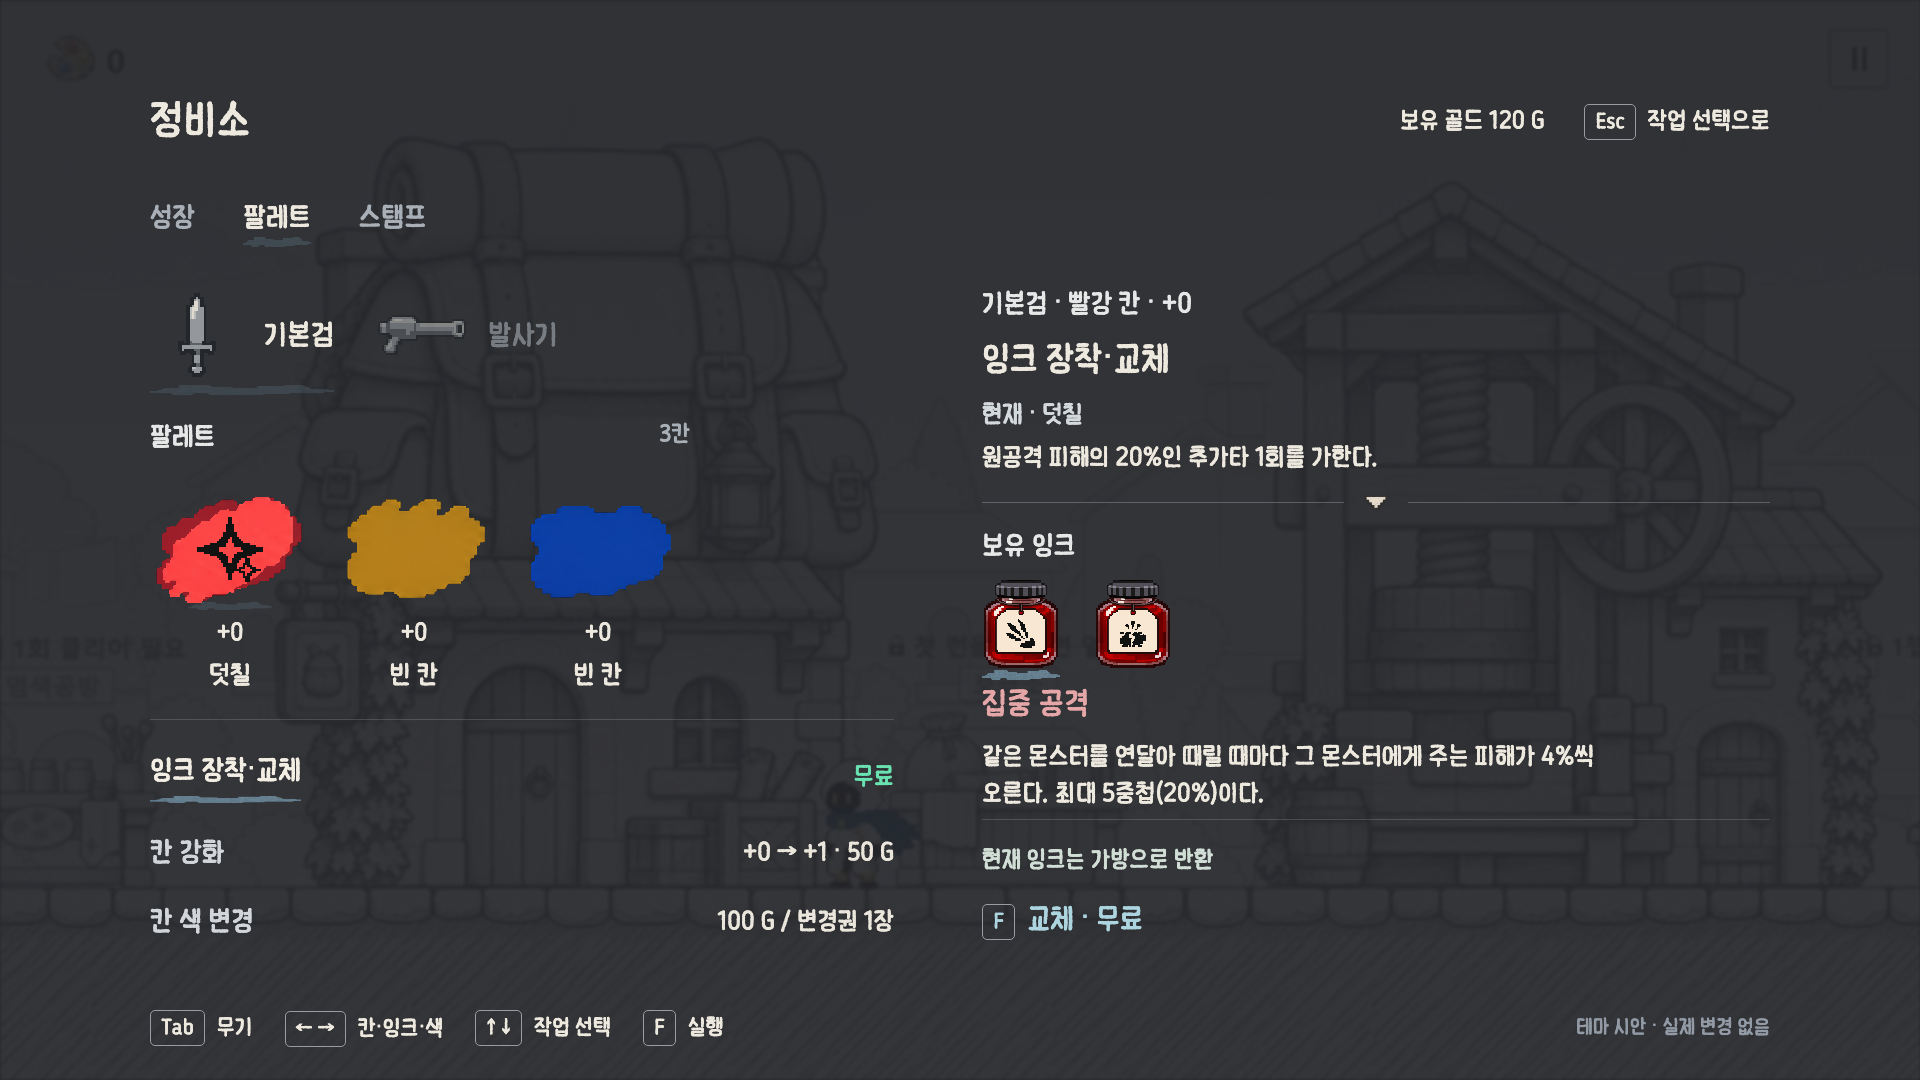
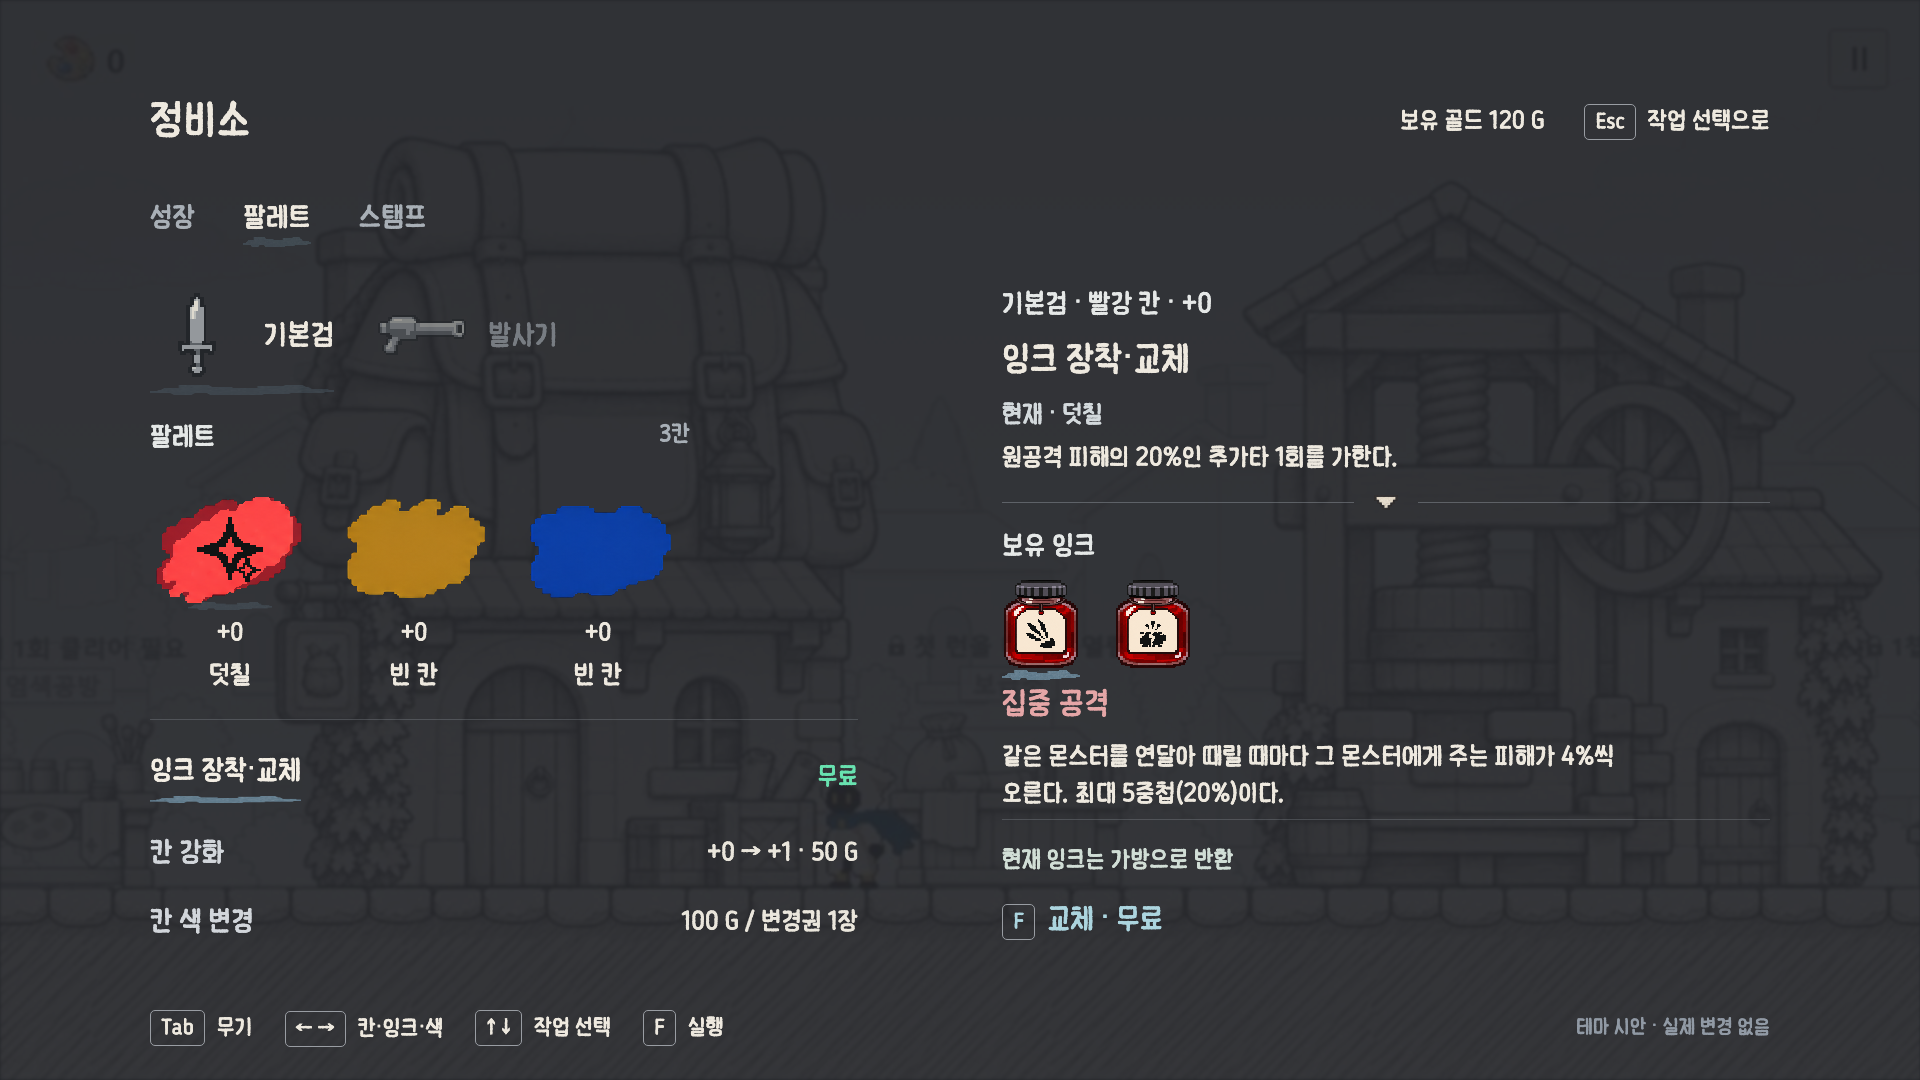
Widen palette layout gutter and document recolor implementation

diff --git a/ui/work/theme/ink-pixel-v1/maintenance-palette-v1/index.html b/ui/work/theme/ink-pixel-v1/maintenance-palette-v1/index.html
@@ -3,7 +3,7 @@
 
 /* Layout review: keep the composition centered and emphasize the active layer. */
 nav .mark:after{opacity:.3}.weapons .mark:after{opacity:.25}
-.cols{gap:88px;grid-template-columns:744px 1fr;margin-top:52px}
+.cols{gap:144px;grid-template-columns:708px 1fr;margin-top:52px}
 .paletteHead{margin-top:38px}.services{margin-top:38px}
 #detail{position:relative;height:650px}
 .current{height:156px;min-height:0}.transition{margin:10px 0 24px}
@@ -17,7 +17,7 @@ p.effect{font-size:28px;line-height:1.5}
 body[data-mode="ink"] .slot.chosen .layers:after{opacity:.25}
 body[data-mode="ink"] .slot.chosen .level{color:#eee9df}
 .services{gap:30px}.services p{font-size:25px}.services small{font-size:23px}
-.services button{font-size:25px;line-height:1.7}.services button:hover{color:#acd5df}.services small{margin-top:6px}.serviceInfo{font-size:28px;line-height:1.6;margin-top:36px}.expanded .slots{gap:10px}.expanded .slot{width:138px}.expanded .layers,.expanded .layers img{width:138px;height:108px}.expanded .slot .name{font-size:25px}.expanded .paletteHead{max-width:730px}.slotDetail{padding-top:0}p.effect{word-break:keep-all;overflow-wrap:break-word}
+.services button{font-size:25px;line-height:1.7}.services button:hover{color:#acd5df}.services small{margin-top:6px}.serviceInfo{font-size:28px;line-height:1.6;margin-top:36px}.expanded .slots{gap:9px}.expanded .slot{width:132px}.expanded .layers,.expanded .layers img{width:132px;height:104px}.expanded .slot .name{font-size:25px}.expanded .paletteHead{max-width:730px}.slotDetail{padding-top:0}p.effect{word-break:keep-all;overflow-wrap:break-word}
 /* Important service values are not secondary captions. */
 .services{display:grid;grid-template-columns:1fr 1fr;gap:36px;padding-top:24px}
 .services button{line-height:1.3;color:#eee9df;position:relative}

diff --git a/ui/work/theme/ink-pixel-v1/maintenance-palette-v1/README.md b/ui/work/theme/ink-pixel-v1/maintenance-palette-v1/README.md
@@ -55,3 +55,8 @@ F/버튼으로 시안 메모리 안에서 골드와 레벨 갱신, 부족/최대
 근거: 팀 레포 docs/design/systems/roguelite-progression.md의 칸 색 변경권, ink-blueprint-proposal.md의 런 중 칸 하나의 색상 변경. 강화 유지 및 기존 잉크 반환을 표시. 직접 색 선택은 Run/Runtime/WeaponGrowth.cs의 명시 색 인자를 참고한 UI 검토안이며 최종 규칙 확정이 아니다. 무색 전환 제외. 빈 칸 허용, 가방 포화 처리는 미정이므로 가방 여유 있는 상태만 시각화했다.
 
 기존 '무작위 색/변경권만' 요약은 색 변경/100G 또는 변경권으로 수정. 비용·횟수는 밸런스 시험값. 6개 상태 렌더 확인, 전체 키보드 자동화 검증 없음. Unity 변경 없음.
+
+## 중앙 여백 및 색 변경 조사
+중앙 간격 88→144px. 좌측 744→708px, 우측 시작 982→1002px로 조정해 전체를 한쪽으로 밀지 않음.
+팀 로컬 HEAD c4fca471 확인: TemporaryGameGui.Growth.cs:66은 선택 잉크의 color/id를 Recolor에 전달. WeaponGrowth.cs:196–200은 기존 잉크 반환 후 선택 잉크로 칸 색과 장착을 변경한다. 랜덤 호출 없음. TemporaryGameGui.Growth.cs:248은 빈 칸을 거부.
+따라서 현재 구현은 보유한 다른 색 잉크 선택→칸 색 변경+잉크 장착 방식이다. 현행 시안의 색만 고르는 UI는 이 구현과 다르며 후속 개정 필요. 문서에는 색 변경/반환 원칙은 있으나 UI 선택 단위가 명확하지 않음. Unity 실행 검증은 하지 않았고 코드 읽기로 확인했다.
